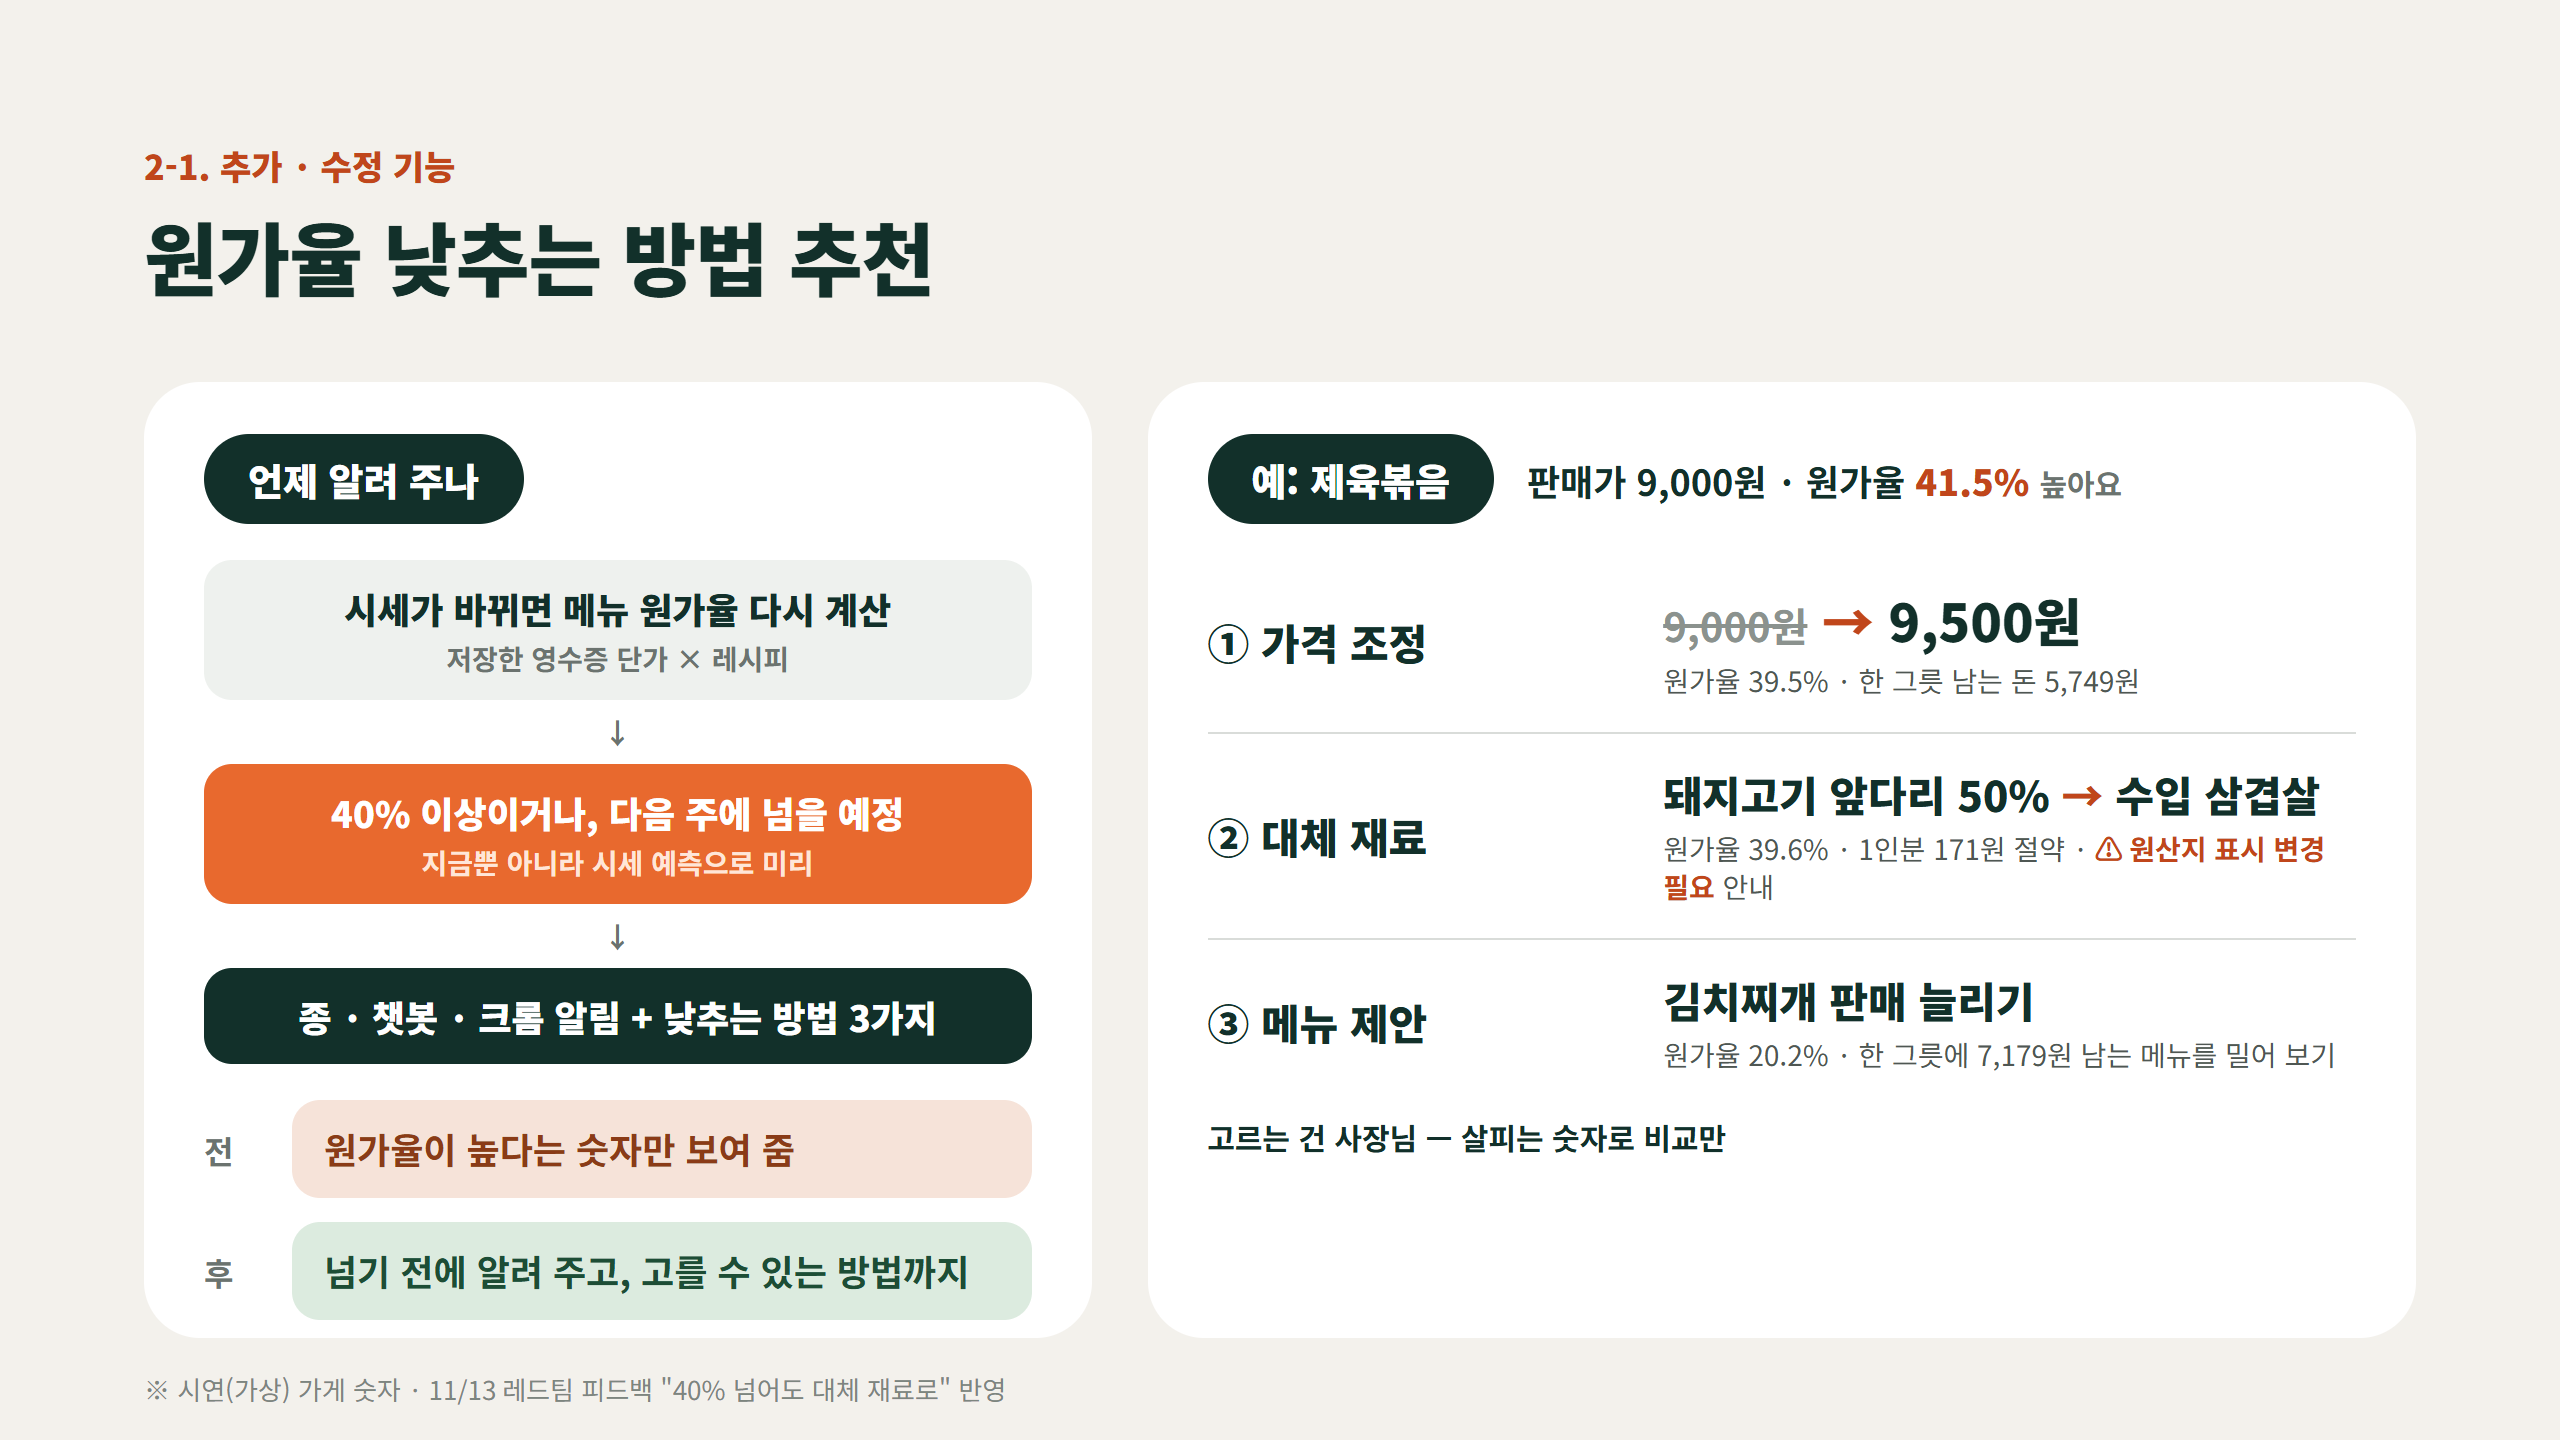
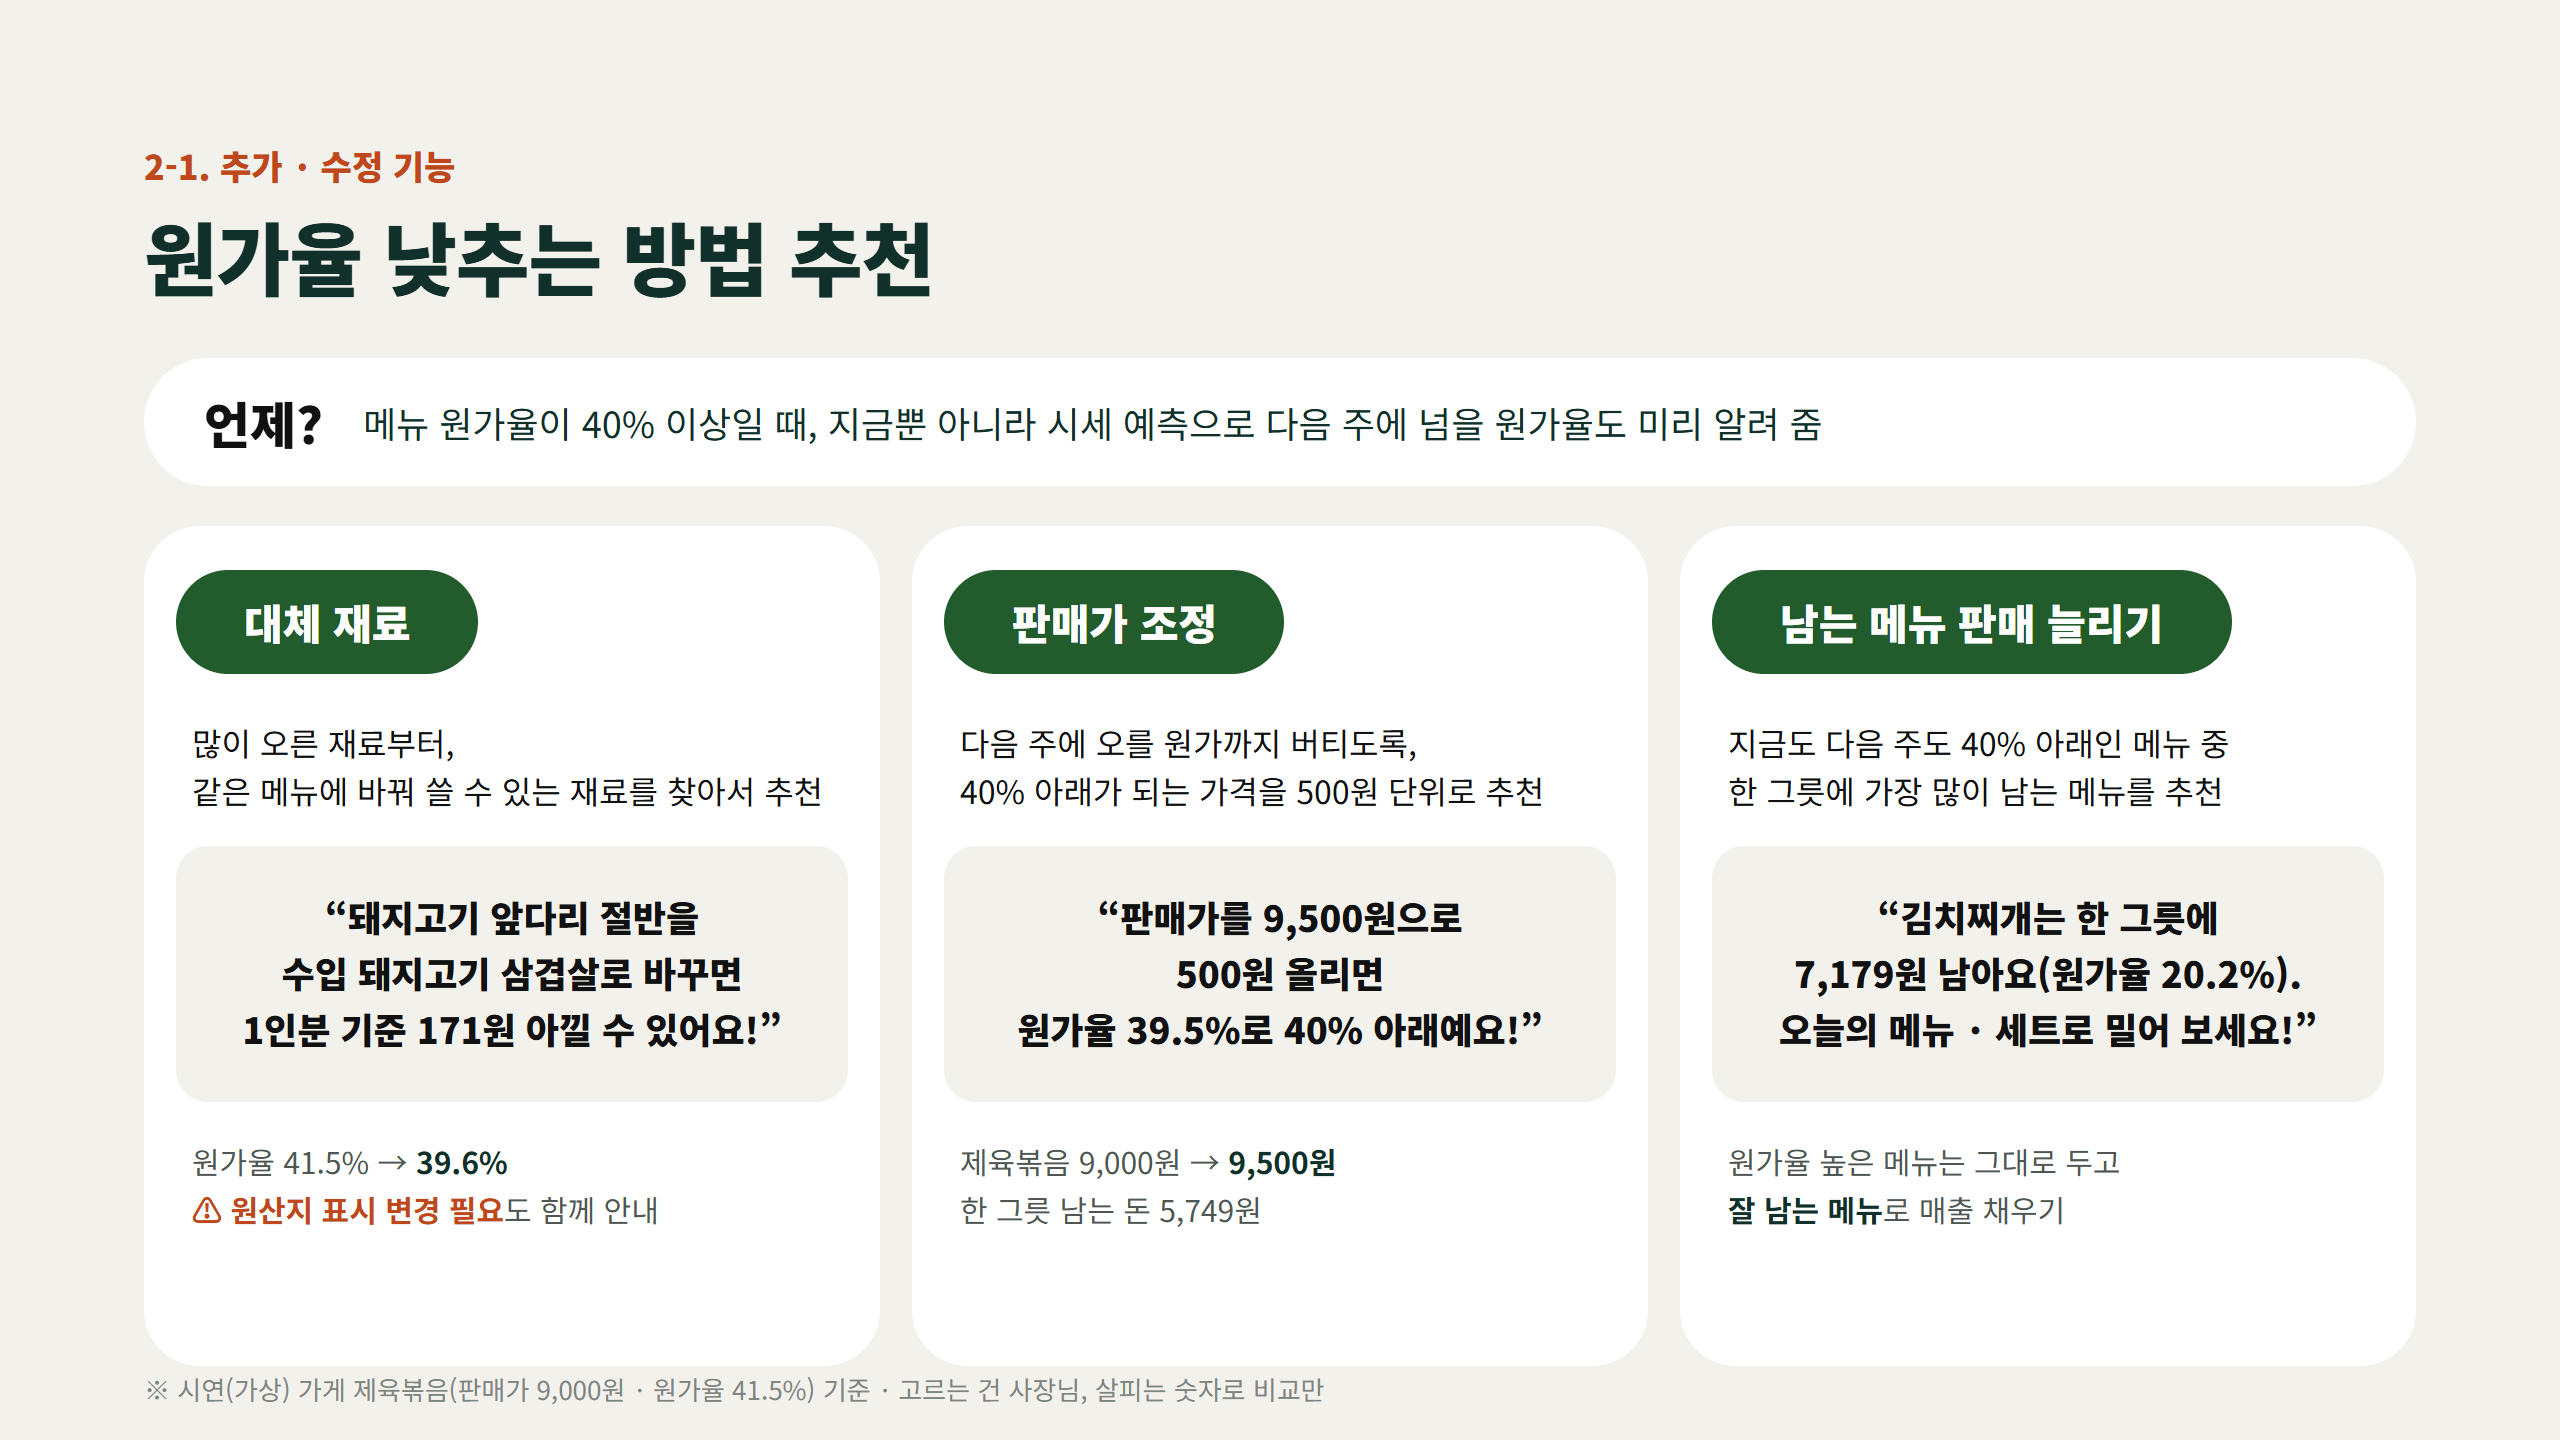
docs : plan/presentation/1127_slides 14쪽 원가율 낮추는 방법을 발표 PPT 양식으로 다시 만듦 (언제? 줄 + 대체 재료 · 판매가 조정 · 남는 메뉴 판매 늘리기 카드)

diff --git a/plan/presentation/1127_slides/slides.html b/plan/presentation/1127_slides/slides.html
@@ -99,43 +99,44 @@
   </style>
 </section>
 
-<!-- 14쪽: 원가율 낮추는 방법 추천 -->
+<!-- 14쪽: 원가율 낮추는 방법 추천 (발표 PPT 양식: 언제? 줄 + 카드 3장) -->
 <section class="slide" id="s14">
   <div class="eyebrow">2-1. 추가 · 수정 기능</div>
   <h1>원가율 낮추는 방법 추천</h1>
-  <div class="cols">
-    <div class="card" style="flex:.9">
-      <span class="pill">언제 알려 주나</span>
-      <div class="flow">
-        <div class="step">시세가 바뀌면 메뉴 원가율 다시 계산<small>저장한 영수증 단가 × 레시피</small></div>
-        <div class="down">↓</div>
-        <div class="step hot">40% 이상이거나, 다음 주에 넘을 예정<small>지금뿐 아니라 시세 예측으로 미리</small></div>
-        <div class="down">↓</div>
-        <div class="step dark">종 · 챗봇 · 크롬 알림 + 낮추는 방법 3가지</div>
-      </div>
-      <div class="ba" style="margin-top:18px">
-        <b class="tag">전</b><div class="box before">원가율이 높다는 숫자만 보여 줌</div>
-        <b class="tag">후</b><div class="box after">넘기 전에 알려 주고, 고를 수 있는 방법까지</div>
-      </div>
+  <div class="when"><b>언제?</b><span>메뉴 원가율이 40% 이상일 때, 지금뿐 아니라 시세 예측으로 다음 주에 넘을 원가율도 미리 알려 줌</span></div>
+  <div class="cols tip3">
+    <div class="card">
+      <span class="gp">대체 재료</span>
+      <p class="how">많이 오른 재료부터,<br>같은 메뉴에 바꿔 쓸 수 있는 재료를 찾아서 추천</p>
+      <div class="quote">“돼지고기 앞다리 절반을<br>수입 돼지고기 삼겹살로 바꾸면<br>1인분 기준 171원 아낄 수 있어요!”</div>
+      <p class="sub">원가율 41.5% → <b>39.6%</b><br><span class="warn">⚠ 원산지 표시 변경 필요</span>도 함께 안내</p>
     </div>
-    <div class="card" style="flex:1.25">
-      <span class="pill">예: 제육볶음</span>
-      <span style="margin-left:12px;font-size:18px;font-weight:700">판매가 9,000원 · 원가율 <span class="new">41.5%</span> <span class="muted" style="font-size:15px">높아요</span></span>
-      <div class="rows">
-        <div class="row"><h3>① 가격 조정</h3>
-          <div><div class="v"><span class="old" style="font-size:20px">9,000원</span> <span class="arrow">→</span> 9,500원</div>
-          <p>원가율 39.5% · 한 그릇 남는 돈 5,749원</p></div></div>
-        <div class="row"><h3>② 대체 재료</h3>
-          <div><div class="v" style="font-size:21px">돼지고기 앞다리 50% <span class="arrow">→</span> 수입 삼겹살</div>
-          <p>원가율 39.6% · 1인분 171원 절약 · <b style="color:#c0461b">⚠ 원산지 표시 변경 필요</b> 안내</p></div></div>
-        <div class="row"><h3>③ 메뉴 제안</h3>
-          <div><div class="v" style="font-size:21px">김치찌개 판매 늘리기</div>
-          <p>원가율 20.2% · 한 그릇에 7,179원 남는 메뉴를 밀어 보기</p></div></div>
-      </div>
-      <p style="margin-top:6px;font-size:15px;font-weight:700">고르는 건 사장님 — 살피는 숫자로 비교만</p>
+    <div class="card">
+      <span class="gp">판매가 조정</span>
+      <p class="how">다음 주에 오를 원가까지 버티도록,<br>40% 아래가 되는 가격을 500원 단위로 추천</p>
+      <div class="quote">“판매가를 9,500원으로<br>500원 올리면<br>원가율 39.5%로 40% 아래예요!”</div>
+      <p class="sub">제육볶음 9,000원 → <b>9,500원</b><br>한 그릇 남는 돈 5,749원</p>
+    </div>
+    <div class="card">
+      <span class="gp">남는 메뉴 판매 늘리기</span>
+      <p class="how">지금도 다음 주도 40% 아래인 메뉴 중<br>한 그릇에 가장 많이 남는 메뉴를 추천</p>
+      <div class="quote">“김치찌개는 한 그릇에<br>7,179원 남아요(원가율 20.2%).<br>오늘의 메뉴 · 세트로 밀어 보세요!”</div>
+      <p class="sub">원가율 높은 메뉴는 그대로 두고<br><b>잘 남는 메뉴</b>로 매출 채우기</p>
     </div>
   </div>
-  <div class="note">※ 시연(가상) 가게 숫자 · 11/13 레드팀 피드백 "40% 넘어도 대체 재료로" 반영</div>
+  <div class="note">※ 시연(가상) 가게 제육볶음(판매가 9,000원 · 원가율 41.5%) 기준 · 고르는 건 사장님, 살피는 숫자로 비교만</div>
+  <style>
+    #s14 .when { margin-top: 22px; background: #fff; border-radius: 999px; padding: 14px 30px; display: flex; align-items: center; gap: 20px; font-size: 18px; }
+    #s14 .when b { font-size: 25px; font-weight: 800; color: #111; }
+    #s14 .tip3 { margin-top: 20px; height: 420px; gap: 16px; }
+    #s14 .card { padding: 22px 16px; display: flex; flex-direction: column; }
+    #s14 .gp { align-self: flex-start; background: #235c2c; color: #fff; font-weight: 800; font-size: 21px; padding: 11px 34px; border-radius: 999px; }
+    #s14 .how { font-size: 16px; line-height: 1.5; margin: 22px 8px 16px; color: #111; }
+    #s14 .quote { background: #f3f1ec; border-radius: 16px; padding: 22px 12px; text-align: center; font-size: 18px; font-weight: 800; line-height: 1.55; color: #111; }
+    #s14 .sub { margin: 18px 8px 0; font-size: 15px; line-height: 1.6; color: #4f5753; }
+    #s14 .sub b { color: #12302a; }
+    #s14 .warn { color: #c0461b; font-weight: 700; }
+  </style>
 </section>
 
 <!-- 16쪽: 재료 구매처 연결 -->
